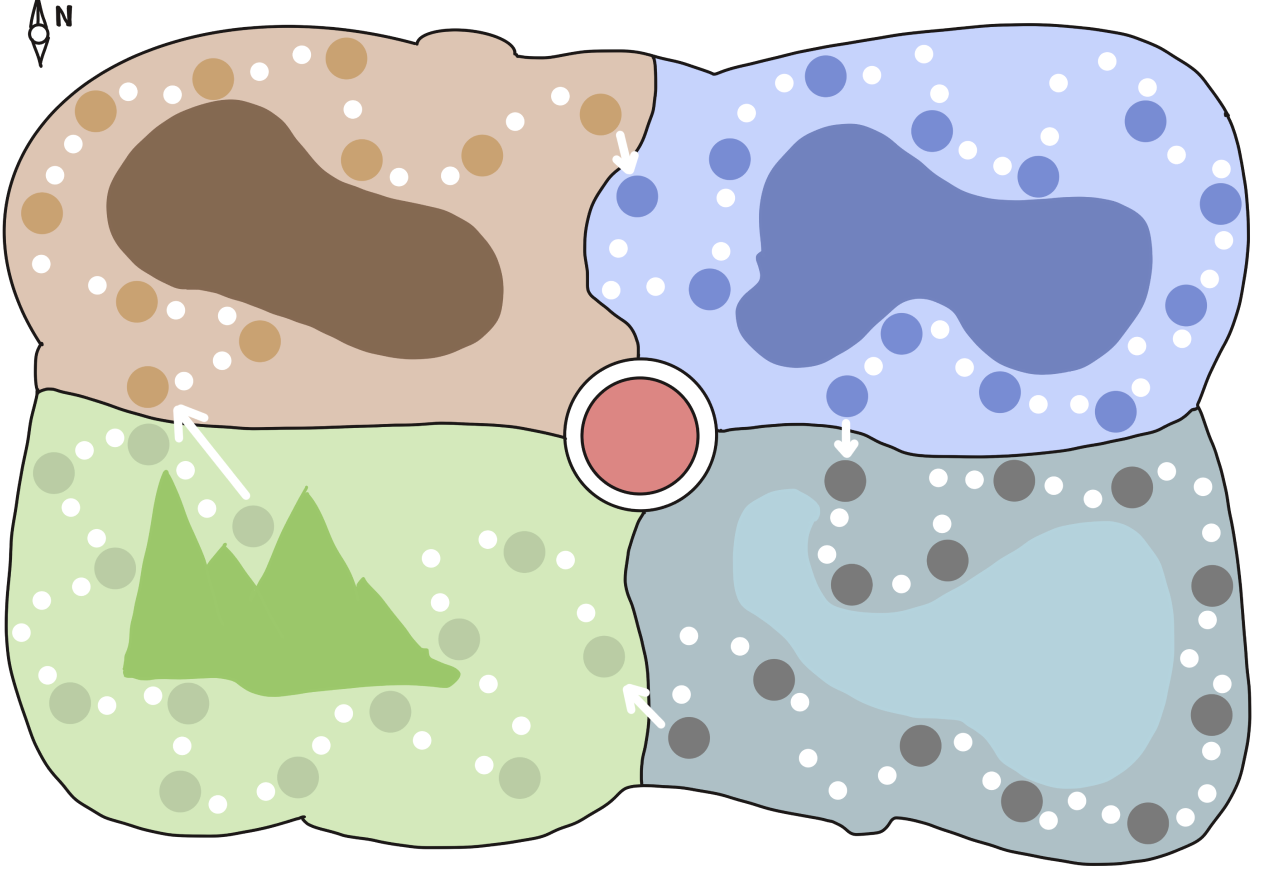
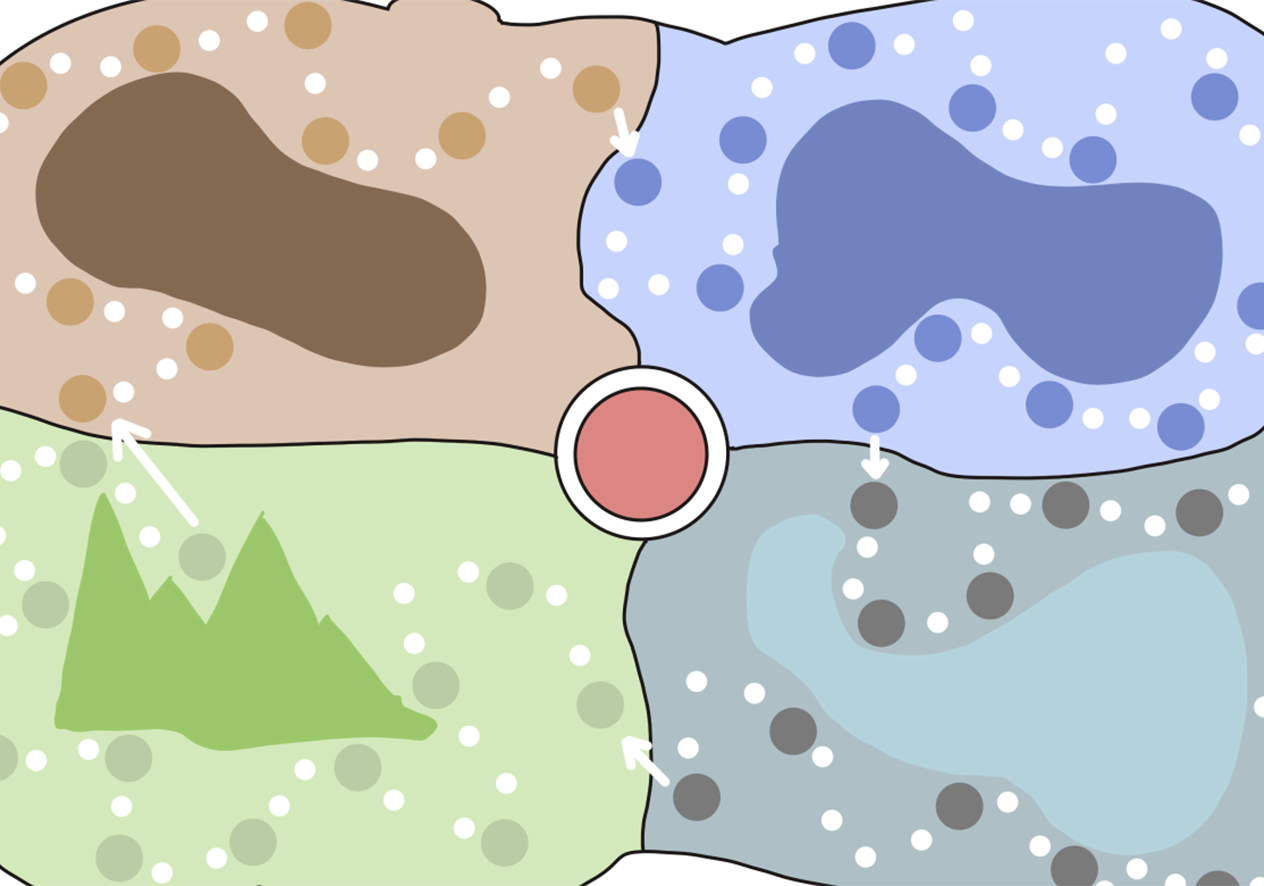
compatibllity

diff --git a/src/components/map.jsx b/src/components/map.jsx
@@ -1,85 +1,137 @@
-import gsap from 'gsap';
-import { ScrollTrigger } from 'gsap/ScrollTrigger';
-import { useGSAP } from '@gsap/react';
+import gsap from "gsap";
+import { ScrollTrigger } from "gsap/ScrollTrigger";
+import { useGSAP } from "@gsap/react";
+import { useRef, useEffect, useState } from "react";
 
-export default function Map(){
+export default function Map() {
+  gsap.registerPlugin(ScrollTrigger);
 
-    console.log(window.innerWidth)
+  const mapRef = useRef(null);
+  const [mapWidth, setMapWidth] = useState(0);
+  const [mapHeight, setMapHeight] = useState(0);
 
-    gsap.registerPlugin(ScrollTrigger)
+useEffect(() => {
+  const mapEl = mapRef.current;
+  if (!mapEl) return;
 
-     const handleMoveMap = (xOffset) => {
-            gsap.to(".map", {
-            x: xOffset,
-            duration: 1,
-            ease: "power2.inOut",
-            });
-        };
+  const handleLoad = () => {
+    setMapWidth(mapEl.naturalWidth);
+    setMapHeight(mapEl.naturalHeight);
+    console.log("Map loaded:", mapEl.naturalWidth, mapEl.naturalHeight);
+  };
 
-    useGSAP(()=>{
+  if (mapEl.complete) {
+    handleLoad();
+  } else {
+    mapEl.addEventListener("load", handleLoad);
+  }
 
-        gsap.to(
-            ".walking",
-            {
-                x: -window.innerWidth / 2,
-                ease: "none",
-                scrollTrigger: {
-                    trigger: ".walking",   // 触发动画的元素
-                    start: "top bottom",     // 当 .walking 顶部到达视口底部时触发
-                    end: "bottom top",       // 当 .walking 底部到达视口顶部时结束
-                    scrub: true,         
-                }
-            }
-         );
+  return () => mapEl.removeEventListener("load", handleLoad);
+}, []);
 
-         
-      
-    })
 
-    return(
-        <>
-        <div className="relative w-screen h-screen overflow-hidden bg-[#3e3e3e]">
-             <div className="z-10 relative flex flex-col items-center h-[20%] w-screen justify-center">
-                <h1 className="text-9xl font-bold text-[#928c71] eras">MAP</h1>
-            </div>
-            <div className="relative flex justify-end walking w-full">
-                <img src="/walking.gif" width="100px" className=" walking" />
-            </div>
-           <div className="w-full h-full relative">
-                <div className="nav absolute top-[1%] left-[2%] flex justify-left gap-4">
-                    <div className="nav absolute top-[1%] left-[2%] flex gap-4 z-20">
-        <button
-          className="ruin bg-[#a0997a] border border-black px-4 py-2 font-bold"
-          onClick={() => handleMoveMap(0)}
-        >
-          RUIN
-        </button>
-        <button
-          className="ocean bg-[#a0997a] border border-black px-4 py-2 font-bold"
-          onClick={() => handleMoveMap(-200)}
-        >
-          OCEAN
-        </button>
-        <button
-          className="forest bg-[#a0997a] border border-black px-4 py-2 font-bold"
-          onClick={() => handleMoveMap()}
-        >
-          FOREST
-        </button>
-        <button
-          className="river bg-[#a0997a] border border-black px-4 py-2 font-bold"
-          onClick={() => handleMoveMap(-window.innerWidth * 3)}
-        >
-          RIVER
-        </button>
+  // 点击按钮同时移动 x 和 y
+  const handleMoveMap = (xOffset = 0, yOffset = 0) => {
+    if (mapRef.current) {
+      gsap.to(mapRef.current, {
+        x: xOffset,
+        y: yOffset,
+        duration: 1,
+        ease: "power2.inOut",
+      });
+    }
+  };
+
+  useGSAP(() => {
+    gsap.to(".walking", {
+      x: -window.innerWidth / 2,
+      ease: "none",
+      scrollTrigger: {
+        trigger: ".walking",
+        start: "top bottom",
+        end: "bottom top",
+        scrub: true,
+      },
+    });
+  });
+
+  return (
+    <div className="relative w-screen h-screen overflow-hidden bg-[#3e3e3e]">
+      {/* 标题 */}
+      <div className="z-10 relative flex flex-col items-center h-[20%] w-screen justify-center">
+        <h1 className="text-9xl font-bold text-[#928c71] eras">MAP</h1>
       </div>
-                </div>
-               <div className="w-full h-full relative overflow-hidden">
-                    <img src="map.png" className="map absolute top-0 left-0 w-[4000px]" />
-                </div>
-           </div>
-å
+
+      {/* 小人 */}
+      <div className="relative flex justify-end walking w-full">
+        <img src="/walking.gif" width="100px" className="walking" />
+      </div>
+
+      {/* iphone map */}
+      <div className="relative flex w-full flex-1 h-full overflow-hidden md:hidden ">
+        <div className="relative w-full h-full overflow-hidden">
+        <img
+              src="map-iphone.jpg" 
+             className="map absolute top-0 left-0 w-full h-auto object-contain scale-[-1]"
+              
+            />
         </div>
-        </>
-    )
+      </div>
+
+      {/* ipad map */}
+      <div className="relative flex w-full flex-1 h-full overflow-hidden hidden md:block xl:hidden">
+        <div className="relative w-full h-full overflow-hidden">
+        <img
+              src="map-ipad.jpg" 
+             className="map absolute top-0 left-0 w-full h-auto object-contain"
+              
+            />
+        </div>
+      </div>
+        
+
+      <div className="relative flex w-full flex-1 h-full overflow-hidden hidden xl:block">
+        {/* 按钮 */}
+        <div className="nav absolute top-[1%] left-[2%] flex gap-4 z-20 ">
+          <button 
+            className="ruin bg-[#a0997a] border border-black px-4 py-2 font-bold"
+            onClick={() => handleMoveMap(0, 0)}
+          >
+            RUIN
+          </button>
+          <button
+            className="ocean bg-[#a0997a] border border-black px-4 py-2 font-bold"
+            onClick={() => handleMoveMap(-mapWidth / 1.8, 0)}
+          >
+            OCEAN
+          </button>
+          <button
+            className="forest bg-[#a0997a] border border-black px-4 py-2 font-bold"
+            onClick={() => handleMoveMap(0, -mapHeight)}
+          >
+            FOREST
+          </button>
+          <button
+            className="river bg-[#a0997a] border border-black px-4 py-2 font-bold"
+            onClick={() => handleMoveMap(-mapWidth/1.8, -mapHeight)}
+          >
+            RIVER
+          </button>
+        </div>
+
+        {/* 地图 */}
+       <div className="relative w-full h-full overflow-hidden">
+        <img
+          src="map.png"
+          ref={mapRef}
+          className="map absolute top-0 left-0 w-[2000px]"
+          style={{
+    transform: "scale(1.5)",
+    transformOrigin: "top left",
+  }}
+        />
+      </div>
+      </div>
+    </div>
+  );
 }

diff --git a/src/components/cardintro.jsx b/src/components/cardintro.jsx
@@ -32,9 +32,9 @@ export default function CardIntro(){
 
     return(
         <>
-        <div className="relative w-screen h-screen overflow-hidden bg-[#333333] z-10 cardIntro " >
-             <div className="z-10 relative flex flex-col items-left w-screen justify-center pt-[25%] pl-[20%]" data-speed="1.8">
-                <motion.p className="text-3xl font-bold text-[#e3e3e3] py-[1%] opacity-0"
+        <div className="relative w-screen h-screen overflow-hidden bg-[#333333] z-10 cardIntro flex md:items-center md:justify-center " >
+             <div className="singlecard z-10 relative flex flex-col md:items-left text-center md:justify-center md:pr-[20%] pt-[4vh] md:pt-0" data-speed="1.8">
+                <motion.p className="text-2xl md:text-3xl font-bold text-[#e3e3e3] py-[1%] opacity-0"
                 whileInView={{
                     x:-20,
                     opacity:1,
@@ -44,7 +44,7 @@ export default function CardIntro(){
                         delay: 0.2,  // 延迟时间，单位秒
                  }}
                 >EACH CARD INCLUDES...</motion.p>
-                <motion.p className="text-5xl font-bold text-[#928c71] eras"
+                <motion.p className="text-4xl md:text-5xl font-bold text-[#928c71] eras"
                 whileInView={{
                     x:20,
                     opacity:1,
@@ -63,8 +63,8 @@ export default function CardIntro(){
                         duration: 0.5, // 动画时长，单位秒
                         delay: 0.2,  // 延迟时间，单位秒
                  }}
-                 className="text-5xl font-bold text-[#928c71] eras pl-[5%] py-[1%]">EVENTS HAPPEND</motion.p>
-                <motion.p className="text-5xl font-bold text-[#928c71] eras pl-[10%]"
+                 className="md:text-5xl text-4xl font-bold text-[#928c71] eras pl-[5%] py-[1%]">EVENTS HAPPEND</motion.p>
+                <motion.p className="md:text-5xl text-4xl font-bold text-[#928c71] eras pl-[10%]"
                 whileInView={{
                     x:20,
                     opacity:1,
@@ -75,7 +75,7 @@ export default function CardIntro(){
                  }}
                  >CULTURE ELEMENTS</motion.p>
             </div>
-            <div className="z-0 absolute top-[20%] right-[20%] w-[300px] h-[500px] overflow-hidden" data-speed="1">
+            <div className="z-0 absolute top-1/2 left-1/2 -translate-x-1/2 -translate-y-1/4 md:translate-x-0 md:translate-y-0 md:top-[20%] md:right-[20%] w-[300px] h-[500px] overflow-hidden" data-speed="1">
                 <img src="singalCard.jpg" className='cardImages' />
             </div>
             

diff --git a/src/components/eventsIntro.jsx b/src/components/eventsIntro.jsx
@@ -37,22 +37,22 @@ export default function EventsIntro() {
         {/* 这是横向滚动的容器 */}
         <div className='horizontal-scroller flex w-[300vw] h-screen'>
           {/* 第一个 div，占一屏 */}
-          <div className='w-screen h-screen flex flex-col items-center justify-center'>
-            <p className='text-8xl font-bold text-[#e3e3e3] py-[1%]'>30+</p>
-            <p className='text-4xl font-bold text-[#3e3e3e] eras'>Abrigaial culture related</p>
-            <p className='text-7xl font-bold text-[#3e3e3e] eras py-[1%]'>ANIMATIONS AND PLANTS</p>
+          <div className='w-screen h-screen flex flex-col items-center justify-center text-center'>
+            <p className='md:text-8xl text-6xl font-bold text-[#e3e3e3] py-[1%]'>30+</p>
+            <p className='md:text-4xl text-2xl font-bold text-[#3e3e3e] eras'>Abrigaial culture related</p>
+            <p className='md:text-7xl text-4xl font-bold text-[#3e3e3e] eras py-[1%]'>ANIMATIONS AND PLANTS</p>
           </div>
           {/* 第二个 div，占一屏 */}
           <div className='w-screen h-screen flex flex-col items-center justify-center'>
-            <p className='text-8xl font-bold text-[#e3e3e3] py-[1%]'>5+</p>
-            <p className='text-4xl font-bold text-[#3e3e3e] eras'>Abrigaial culture related</p>
-            <p className='text-7xl font-bold text-[#3e3e3e] eras py-[1%]'>LIFE CUSTOMS</p>
+            <p className='md:text-8xl text-6xl font-bold text-[#e3e3e3] py-[1%]'>5+</p>
+            <p className='md:text-4xl text-2xl font-bold text-[#3e3e3e] eras'>Abrigaial culture related</p>
+            <p className='md:text-7xl text-4xl font-bold text-[#3e3e3e] eras py-[1%]'>LIFE CUSTOMS</p>
           </div>
           {/* 第三个 div，占一屏 */}
           <div className='w-screen h-screen flex flex-col items-center justify-center'>
-            <p className='text-8xl font-bold text-[#e3e3e3] py-[1%] '>4+</p>
-            <p className='text-4xl font-bold text-[#3e3e3e] eras'>Abrigaial culture related</p>
-            <p className='text-7xl font-bold text-[#3e3e3e] eras py-[1%]'> LOCATIONS</p>
+            <p className='md:text-8xl text-6xl font-bold text-[#e3e3e3] py-[1%] '>4+</p>
+            <p className='md:text-4xl text-2xl font-bold text-[#3e3e3e] eras'>Abrigaial culture related</p>
+            <p className='md:text-7xl text-4xl font-bold text-[#3e3e3e] eras py-[1%]'> LOCATIONS</p>
           </div>
         </div>
       </div>

diff --git a/src/components/Intro.jsx b/src/components/Intro.jsx
@@ -52,7 +52,7 @@ export default function Intro(){
             <div className="text-[#696969] text-8xl absolute top-0 left-0 eras board">BOARD</div>
             <div className="text-[#696969] text-8xl absolute right-0 top-0 eras game">GAME</div>
             </div>
-            <div className="z-10 relative flex flex-col items-center text-center text-[#9b9476] justify-center w-full h-full text-2xl">
+            <div className="z-10 relative flex flex-col items-center text-center text-[#9b9476] justify-center w-full h-full text-2xl text-4xl">
                <motion.p className='py-[0.5%] opacity-0'
                 whileInView={{
                     y:-20,
@@ -64,32 +64,10 @@ export default function Intro(){
                 }}
                 >
                 Introduction of the boardgame Introduction ...<br />
+                 Introduction of the boardgame Introduction ...<br />
+                  Introduction of the boardgame Introduction ...<br />
                 </motion.p>
-                <motion.p className='py-[0.5%] opacity-0'
-                whileInView={{
-                    y:-20,
-                    opacity:1,
-                }}
-              transition={{
-                    duration: 0.5, // 动画时长，单位秒
-                    delay: 0.3,  // 延迟时间，单位秒
-                }}
-                >
-                &nbsp; &nbsp; &nbsp; &nbsp; &nbsp; &nbsp;Introduction of the boardgame Introduction ...<br />
-                </motion.p>
-                <motion.p className='py-[0.5%] opacity-0'
-                whileInView={{
-                    y:-20,
-                    opacity:1,
-                }}
-              transition={{
-                    duration: 0.5, // 动画时长，单位秒
-                    delay: 0.4,  // 延迟时间，单位秒
-                }}
-                >
-                &nbsp; &nbsp; &nbsp; &nbsp; &nbsp; &nbsp;&nbsp; &nbsp; &nbsp; &nbsp; &nbsp; &nbsp;
-                Introduction of the boardgame Introduction ...<br />
-                </motion.p>
+               
               
             </div>
            

diff --git a/src/components/sources.jsx b/src/components/sources.jsx
@@ -69,6 +69,12 @@ export default function Sources(){
                 <img src="scroll-img-1.jpg" />
                 <img src="scroll-img-1.jpg" />
                 <img src="scroll-img-1.jpg" />
+                <img src="scroll-img-1.jpg" />
+                <img src="scroll-img-1.jpg" />
+                <img src="scroll-img-1.jpg" />
+                <img src="scroll-img-1.jpg" />
+                 <img src="scroll-img-1.jpg" />
+                <img src="scroll-img-1.jpg" />
             </div>
             <div className="line2  w-[33%] centerimages">
                 <img src="scroll-img-1.jpg" />
@@ -79,11 +85,25 @@ export default function Sources(){
                 <img src="scroll-img-1.jpg" />
                  <img src="scroll-img-1.jpg" />
                 <img src="scroll-img-1.jpg" />
+                <img src="scroll-img-1.jpg" />
+                <img src="scroll-img-1.jpg" />
+                <img src="scroll-img-1.jpg" />
+                <img src="scroll-img-1.jpg" />
+                <img src="scroll-img-1.jpg" />
+                <img src="scroll-img-1.jpg" />
+                <img src="scroll-img-1.jpg" />
+                <img src="scroll-img-1.jpg" />
             </div>
             <div className="line3  w-[33%]">
                 <img src="scroll-img-1.jpg" />
                 <img src="scroll-img-1.jpg" />
                 <img src="scroll-img-1.jpg" />
+                <img src="scroll-img-1.jpg" />
+                <img src="scroll-img-1.jpg" />
+                <img src="scroll-img-1.jpg" />
+                <img src="scroll-img-1.jpg" />
+                <img src="scroll-img-1.jpg" />
+                 <img src="scroll-img-1.jpg" />
                 <img src="scroll-img-1.jpg" />
             </div>
            </div>

diff --git a/src/components/contact.jsx b/src/components/contact.jsx
@@ -44,8 +44,8 @@ export default function Contact(){
             
             {/* 文字内容 - 确保 z-index 大于图片 */}
             <div className="z-10 relative flex flex-col items-center justify-center h-screen text-white">
-                <h1 className="text-6xl text-[#a0997a] text-center leading-normal eras pt-[10%] pb-[8%]">ENJOY YOUR JOURNEY!</h1>
-                <h2 className="text-lg text-[#a0997a] text-center leading-normal eras">
+                <h1 className="md:text-6xl text-5xl text-[#a0997a] text-center leading-normal eras pt-[10%] pb-[8%]">ENJOY YOUR JOURNEY!</h1>
+                <h2 className="md:text-lg text-base text-[#a0997a] text-center leading-normal eras">
                     Website design - NoraZheng<br />
                     Website developing - NoraZheng<br />
                     CONTACT - NZHE0074@UNI.SYDNEY.EDU.AU<br />

diff --git a/src/components/hero.jsx b/src/components/hero.jsx
@@ -13,7 +13,7 @@ const handleAnimationComplete = () => {
              <div className="z-10 relative flex flex-col items-center top-[20%] text-white">
                 {/* <h1 className="text-9xl font-bold eras">PRODUCNAME</h1> */}
                
-<div className="text-9xl font-bold eras" style={{ textAlign: 'center' }}>
+<div className="md:text-9xl font-bold eras text-7xl" style={{ textAlign: 'center' }}>
   {/* 第一行：SHARING */}
   <SplitText
     text="SHARING"
@@ -48,7 +48,7 @@ const handleAnimationComplete = () => {
     onLetterAnimationComplete={handleAnimationComplete}
   />
 </div>
-                 <motion.h2 className="text-5xl py-[0.5%] opacity-[0]"
+                 <motion.h2 className="md:text-5xl py-[0.5%] opacity-[0] text-lg"
                 whileInView={{
                     
                     opacity:1,
